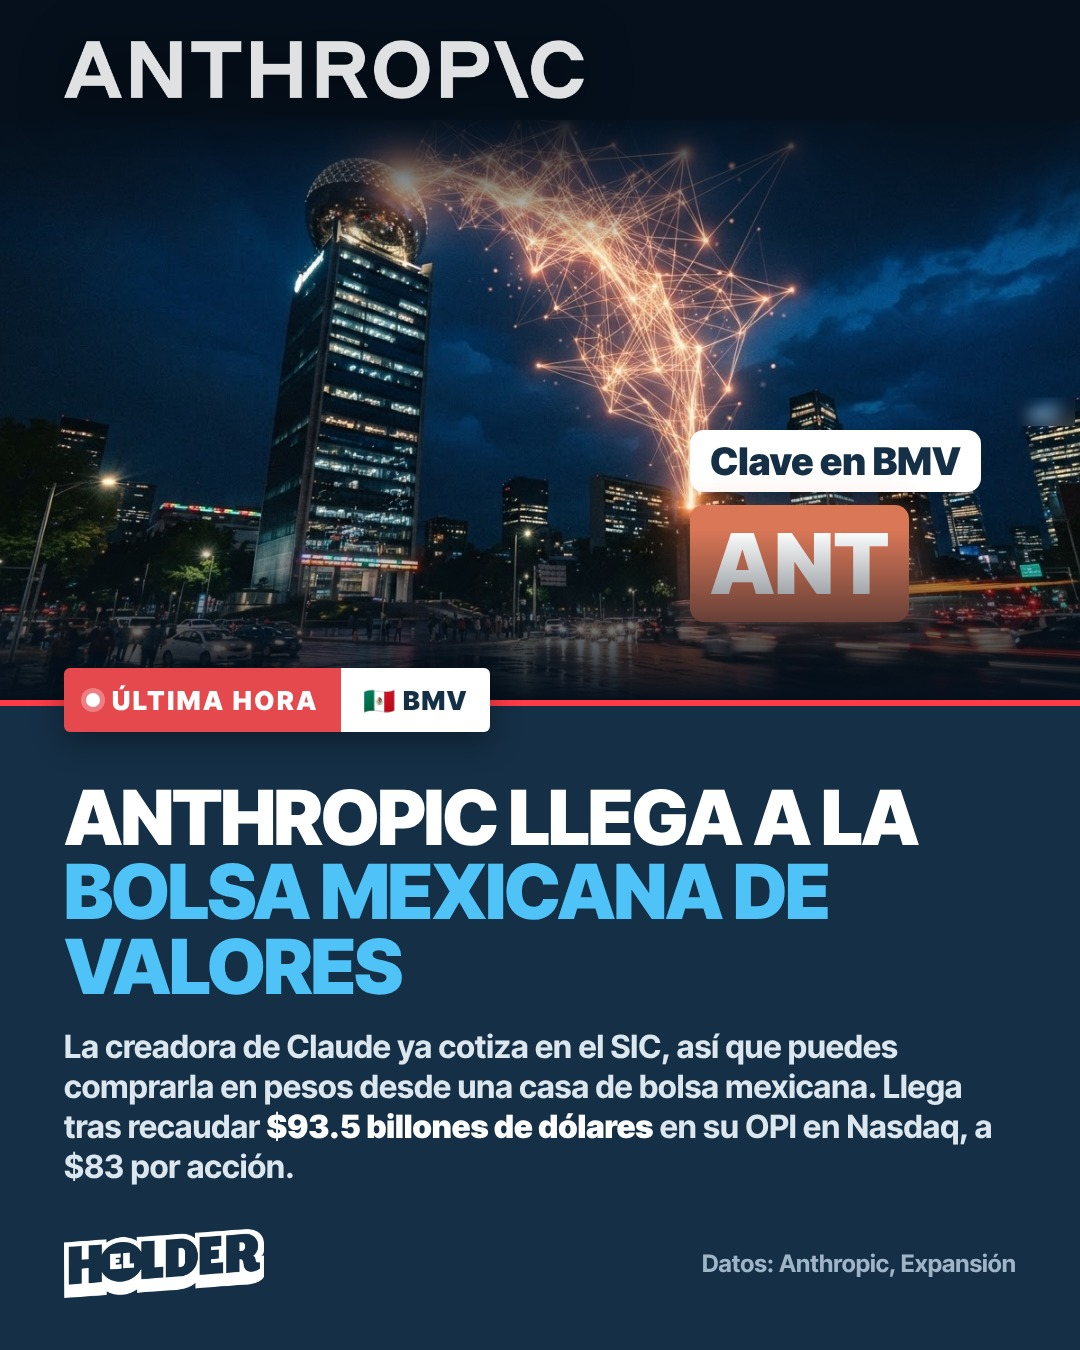
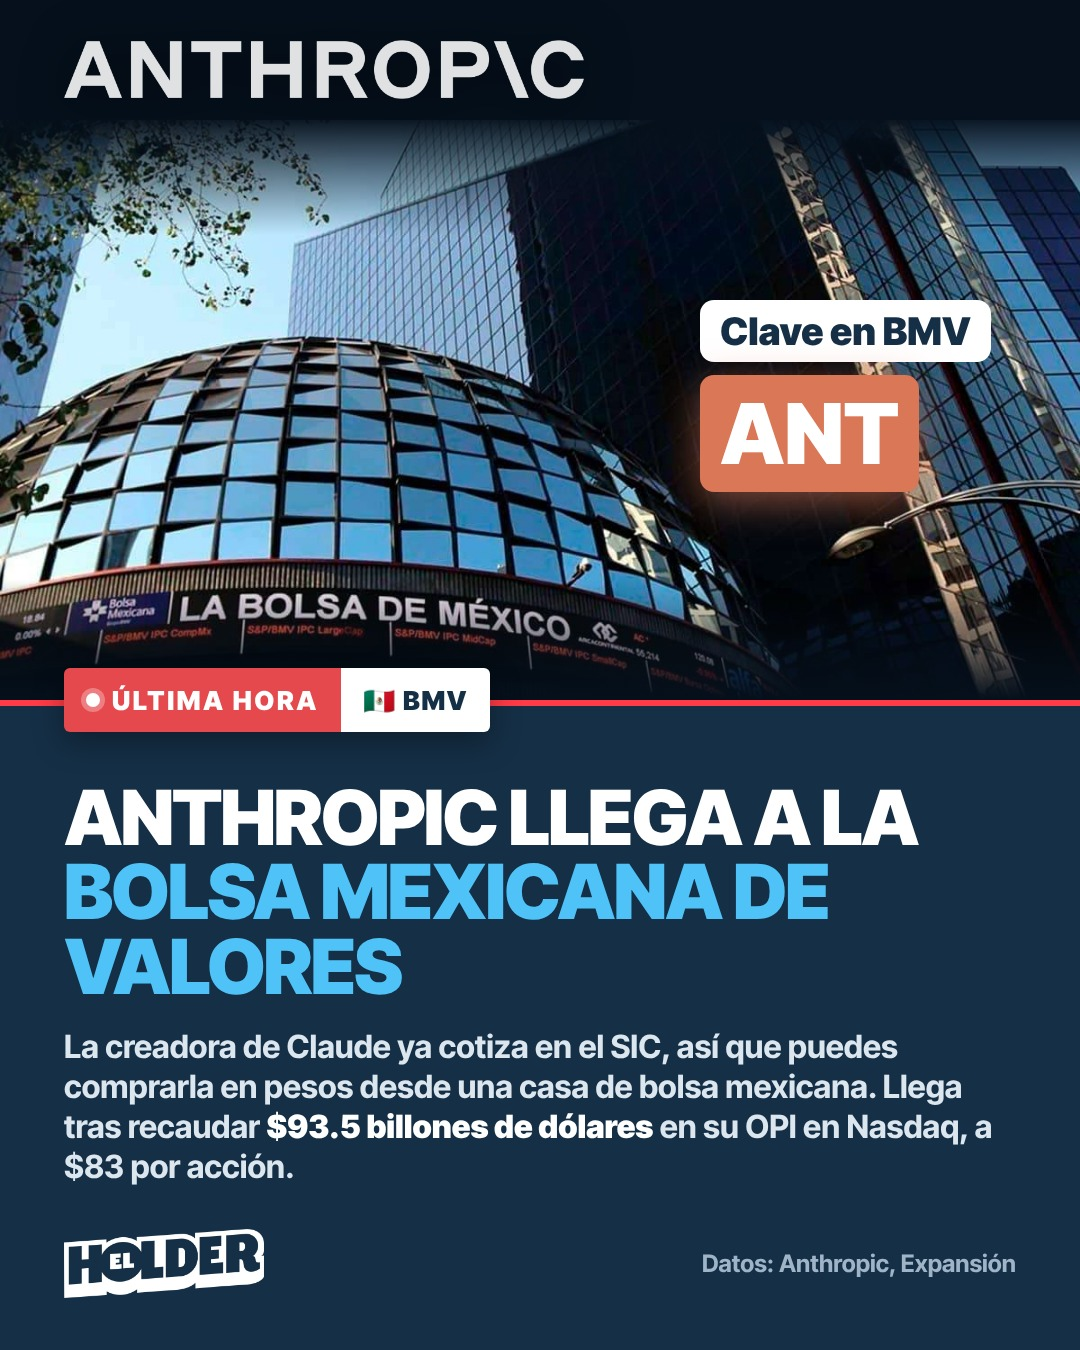
Anthropic BMV con foto real; agrega foto real de la BMV al banco de fondos
Claude-Session: https://claude.ai/code/session_011HtJt2a4sBpoKNENnst7wy

diff --git a/noticias/2026-11-27-anthropic-bmv/src/noticia.html b/noticias/2026-11-27-anthropic-bmv/src/noticia.html
@@ -4,10 +4,10 @@
 html,body{margin:0}*{box-sizing:border-box}
 body{width:1080px;height:1350px;position:relative;overflow:hidden;background:#152F46;font-family:'IT';color:#fff}
 #foto{position:absolute;left:0;top:0;width:1080px;height:700px;overflow:hidden;background:#05101C}
-#foto .bg{position:absolute;left:-20px;top:120px;width:1240px;height:620px;object-fit:cover;object-position:0% 40%}
-#foto .seam{position:absolute;left:0;right:0;top:110px;height:140px;background:linear-gradient(#05101C,transparent)}
+#foto .bg{position:absolute;left:0;top:120px;width:1080px;height:600px;object-fit:cover;object-position:50% 60%}
+#foto .seam{position:absolute;left:0;right:0;top:115px;height:120px;background:linear-gradient(#05101C,rgba(5,16,28,0))}
 #foto .top{position:absolute;left:0;right:0;top:0;height:230px;background:linear-gradient(rgba(5,16,28,.85),transparent)}
-#foto .fade{position:absolute;left:0;right:0;bottom:0;height:170px;background:linear-gradient(transparent,#05101C)}
+#foto .fade{position:absolute;left:0;right:0;bottom:0;height:120px;background:linear-gradient(transparent,#05101C)}
 #foto .logo{position:absolute;left:64px;top:40px;width:520px;filter:drop-shadow(0 6px 24px rgba(0,0,0,.6))}
 .tagp{position:absolute;font-weight:900;border-radius:14px;padding:8px 20px}
 #bar{position:absolute;left:0;top:700px;width:1080px;height:6px;background:#FF3B47}
@@ -23,10 +23,10 @@ p b{color:#fff}
 #pie{position:absolute;left:64px;right:64px;bottom:52px;display:flex;align-items:center;justify-content:space-between}
 #pie img{width:200px}#pie span{font-size:24px;font-weight:700;color:#9FB4C7}
 </style></head><body>
-<div id="foto"><img class="bg" src="bg.jpg"><div class="seam"></div>
+<div id="foto"><img class="bg" src="bmv.jpg"><div class="seam"></div>
  <img class="logo" src="anthropic-white.png">
- <div class="tagp" style="left:690px;top:430px;font-size:38px;background:#fff;color:#152F46">Clave en BMV</div>
- <div class="tagp" style="left:690px;top:505px;font-size:84px;background:#D97757;color:#fff;box-shadow:0 10px 40px rgba(217,119,87,.6)">ANT</div>
+ <div class="tagp" style="left:700px;top:300px;font-size:38px;background:#fff;color:#152F46">Clave en BMV</div>
+ <div class="tagp" style="left:700px;top:375px;font-size:84px;background:#D97757;color:#fff;box-shadow:0 10px 40px rgba(217,119,87,.6)">ANT</div>
  <div class="fade"></div></div>
 <div id="bar"></div>
 <div id="pill"><span class="l"><i></i>ÚLTIMA HORA</span><span class="r">🇲🇽 BMV</span></div>

diff --git a/fondos/INDICE.md b/fondos/INDICE.md
@@ -33,3 +33,10 @@ Regla de uso: elige el tema que más se acerque al slide. No repitas la misma fo
 Para agregar fondos nuevos: genera con Runway (prompt base abajo), redimensiona a 1080×1350 JPG calidad 88, nómbralo `<tema>-NN.jpg` y agrega la fila aquí.
 
 Prompt base: "Moody editorial photograph, dark and cinematic: <escena>, deep navy blue tones, no text, no logos, no people, high contrast, lots of dark negative space at the top for typography overlay." (ratio 1080:1350, modelo gpt-image-2, ~20 créditos).
+
+## Fotos reales (no IA, las manda Adrián)
+Para temas de lugares o personas reales, usar estas primero antes de generar con IA. No marcar como "hecho con IA".
+
+| Tema | Archivos | Úsalo para |
+|---|---|---|
+| bmv | bmv-real-01 (1200×720, edificio y domo de la Bolsa Mexicana de Valores, de día) | Bolsa Mexicana de Valores, SIC, empresas que listan en México, IPC, mercado mexicano |
